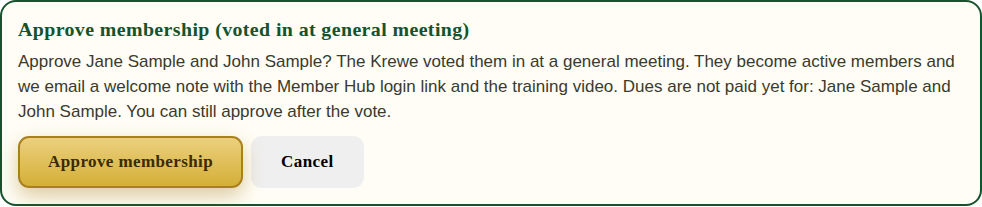
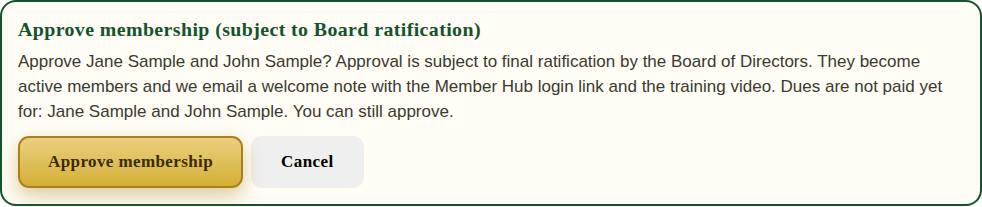
Say membership approval is subject to Board ratification.
Bylaws put final ratification with the Board of Directors. Hub copy, the welcome letter, and the process dates now match that and the July lapse rules on main.

diff --git a/assets/members-desk.js b/assets/members-desk.js
@@ -5657,8 +5657,8 @@
     { key: "fee_pending", title: "Background check fee pending", hint: "Waiting on the fee. Shows whether the full application is submitted." },
     { key: "bg_paid", title: "Background check fee paid", hint: "Start the check when you are ready to paste the ID." },
     { key: "bg_process", title: "Background check in process", hint: "When the check is clean, send the induction email." },
-    { key: "induction", title: "Induction pending", hint: "Dues link is out. Approve after the general meeting vote." },
-    { key: "active", title: "Members (complete)", hint: "Voted in." }
+    { key: "induction", title: "Induction pending", hint: "Dues link is out. Approval is subject to final ratification by the Board of Directors." },
+    { key: "active", title: "Members (complete)", hint: "On the roster." }
   ];
 
   function applicationRowsForView() {
@@ -5803,7 +5803,7 @@
       return '<button type="button" class="btn btn-primary" data-app-dues="' + id + '">Proceed with induction, send dues link</button>';
     }
     if (stage === "induction") {
-      return '<button type="button" class="btn btn-primary" data-app-approve="' + id + '">Approve membership (voted in at general meeting)</button>';
+      return '<button type="button" class="btn btn-primary" data-app-approve="' + id + '">Approve membership (subject to Board ratification)</button>';
     }
     return "";
   }
@@ -6026,7 +6026,7 @@
     if (state.applicationFlash) html += '<div class="hub-app-flash" id="hubAppFlash">' + esc(state.applicationFlash) + "</div>";
     var help = bucket === "prospect"
       ? "These are event RSVP prospects, not the join pipeline. Send the joining packet when they are ready to apply."
-      : "Call first. The card shows the phone number and a Call notes field. Called, send background check email sends the fee link and the full application. It does not include a dues link. After the fee is paid, start the background check. When it is clean, send the induction email with the dues link and the next membership meeting. Approve only after the Krewe votes them in at a general meeting.";
+      : "Call first. The card shows the phone number and a Call notes field. Called, send background check email sends the fee link and the full application. It does not include a dues link. After the fee is paid, start the background check. When it is clean, send the induction email with the dues link and the next membership meeting. Approval is subject to final ratification by the Board of Directors.";
     html += '<p class="hub-pipe-help">' + esc(help) + "</p>" +
       '<p class="hub-packet-launch"><button type="button" class="btn" id="hubEditJoiningPacket">Edit joining packet email</button>' +
       '<span class="muted">Change the greeting and the notes. The finish link and the background check pay buttons stay locked. The dues link is not in this letter.</span></p>' +
@@ -6153,10 +6153,10 @@
         var fields = document.getElementById("hubInductionFields");
         var yes = document.getElementById("hubAppConfirmYes");
         var unpaid = applicationUnpaidDuesNames(row);
-        if (title) title.textContent = "Approve membership (voted in at general meeting)";
+        if (title) title.textContent = "Approve membership (subject to Board ratification)";
         if (bodyText) {
-          bodyText.textContent = "Approve " + applicationCoupleNames(row) + "? The Krewe voted them in at a general meeting. They become active members and we email a welcome note with the Member Hub login link and the training video."
-            + (unpaid ? " Dues are not paid yet for: " + unpaid + ". You can still approve after the vote." : "");
+          bodyText.textContent = "Approve " + applicationCoupleNames(row) + "? Approval is subject to final ratification by the Board of Directors. They become active members and we email a welcome note with the Member Hub login link and the training video."
+            + (unpaid ? " Dues are not paid yet for: " + unpaid + ". You can still approve." : "");
         }
         if (fields) fields.hidden = true;
         if (yes) {

diff --git a/tests/specs/treasurer-ledger.spec.js b/tests/specs/treasurer-ledger.spec.js
@@ -3,6 +3,7 @@
 const { test, expect } = require("@playwright/test");
 const fs = require("fs");
 const path = require("path");
+const { unlockMemberHub } = require("./helpers");
 
 const V7 = path.join(__dirname, "../../previews/v7");
 fs.mkdirSync(V7, { recursive: true });
@@ -516,4 +517,41 @@ test("fundraising summary includes cash and check dues", async ({ page }) => {
   await expect(out.locator("#hubReportCashCheck")).toContainText("$750.00");
   await expect(out.locator("#hubReportCashCheck")).toContainText("cash and check dues");
   await page.locator("#hubReports").screenshot({ path: shot("11-fundraising-cash-check.png"), animations: "disabled" });
+});
+
+test("approve membership says Board ratification", async ({ page }) => {
+  await page.setViewportSize({ width: 1100, height: 1200 });
+  await unlockMemberHub(page, {
+    role: {
+      officer: false,
+      canReviewApplications: true,
+      applications: [{
+        id: "app-jane",
+        first_name: "Jane",
+        last_name: "Sample",
+        email: "jane.sample@example.com",
+        phone: "555-0100",
+        membership_status: "dues-pending",
+        membership_level: "full",
+        application_fee_type: "single",
+        dues_paid: true,
+        created_at: "2026-11-01T15:00:00.000Z"
+      }]
+    }
+  });
+  await page.locator("[data-hub-tab='officer']").click();
+  const tile = page.locator('[data-tool="tool:hubApplications"]');
+  await expect(tile).toBeVisible();
+  await tile.click();
+  const tool = page.locator("#hubApplications");
+  await expect(tool).toContainText("Approval is subject to final ratification by the Board of Directors.");
+  await expect(tool.locator("[data-app-approve='app-jane']")).toHaveText("Approve membership (subject to Board ratification)");
+  await expect(tool).not.toContainText("general meeting");
+  await page.addStyleTag({ content: ".krewe-nav,.krewe-music{display:none !important} .app-card{overflow:visible !important}" });
+  await page.evaluate(() => {
+    document.querySelectorAll(".hub-pipe-col").forEach((col) => {
+      if (!col.querySelector("[data-app-approve]")) col.style.display = "none";
+    });
+  });
+  await tool.screenshot({ path: shot("12-approve-ratification.png"), animations: "disabled" });
 });

diff --git a/previews/welcome-member-email.html b/previews/welcome-member-email.html
@@ -4,7 +4,7 @@
 <meta charset="utf-8" />
 <meta name="viewport" content="width=device-width, initial-scale=1" />
 <meta name="robots" content="noindex" />
-<title>Sample: welcome email after the general meeting vote</title>
+<title>Sample: welcome email after Board ratification</title>
 <style>
   body{margin:0;padding:24px 12px 48px;background:#f6efdd;font-family:Georgia,"Times New Roman",serif;color:#23291f;}
   .note{max-width:640px;margin:0 auto 16px;font-family:system-ui,sans-serif;font-size:14px;line-height:1.45;color:#3a3a2e;}
@@ -15,11 +15,11 @@
 </style>
 </head>
 <body>
-<p class="note">Sample only. This letter is not sent. No personal email address is shown. The live letter goes out when the chair approves membership after the general meeting vote.</p>
+<p class="note">Sample only. This letter is not sent. No personal email address is shown. The live letter goes out when an officer approves membership. Approval is subject to final ratification by the Board of Directors.</p>
 <article class="sheet" id="emailBody">
   <h1>Welcome to the Krewe of Shamrock</h1>
   <p>Dear Alex,</p>
-  <p>Welcome. The Krewe voted you in at a general meeting, and you are on the roster.</p>
+  <p>Welcome. Your membership is approved, subject to final ratification by the Board of Directors, and you are on the roster.</p>
   <p>To use the Member Hub, create your login with the same email you put on the application:</p>
   <ol>
     <li>Open the Member Hub at <a href="https://www.kreweofshamrock.com/members.html">kreweofshamrock.com/members.html</a>.</li>

diff --git a/tests/specs/hub-applications.spec.js b/tests/specs/hub-applications.spec.js
@@ -190,7 +190,7 @@ test.describe("Membership Applications", () => {
 
     await tool.locator("[data-app-approve='app-riley']").click();
     await expect(tool.locator("#hubAppConfirm")).toBeVisible();
-    await expect(tool.locator("#hubAppConfirmBody")).toContainText("voted them in at a general meeting");
+    await expect(tool.locator("#hubAppConfirmBody")).toContainText("final ratification by the Board of Directors");
     await expect(tool.locator("#hubAppConfirmBody")).toContainText("training video");
     await tool.locator("#hubAppConfirmYes").click();
     await expect(tool).toContainText("Approved.");
@@ -815,8 +815,8 @@ test.describe("Membership Applications", () => {
     await tool.locator("[data-app-approve='app-jane']").click();
     const body = tool.locator("#hubAppConfirmBody");
     await expect(body).toContainText("Dues are not paid yet for: Jane Sample and John Sample.");
-    await expect(body).toContainText("You can still approve after the vote.");
-    await expect(body).toContainText("voted them in at a general meeting");
+    await expect(body).toContainText("You can still approve.");
+    await expect(body).toContainText("final ratification by the Board of Directors");
     await expect(tool.locator("#hubAppConfirmYes")).toBeEnabled();
     await page.addStyleTag({ content: ".krewe-nav,.krewe-music{display:none !important}" });
     await tool.locator("#hubAppConfirm").screenshot({

diff --git a/tests/specs/membership-pipeline-dashboard.spec.js b/tests/specs/membership-pipeline-dashboard.spec.js
@@ -205,7 +205,7 @@ test("dashboard shows the pipeline with mock applicants", async ({ page }) => {
 
   await tool.locator("[data-app-approve='app-drew']").click();
   await expect(tool.locator("#hubAppConfirm")).toBeVisible();
-  await expect(tool.locator("#hubAppConfirmTitle")).toContainText("Approve membership (voted in at general meeting)");
+  await expect(tool.locator("#hubAppConfirmTitle")).toContainText("Approve membership (subject to Board ratification)");
   await expect(tool.locator("#hubAppConfirmBody")).toContainText("training video");
   await artifactShot(tool.locator("#hubAppConfirm"), "/opt/cursor/artifacts/membership-approve-confirm.png");
   await page.evaluate(() => {

diff --git a/docs/membership-process.md b/docs/membership-process.md
@@ -13,7 +13,7 @@ Sample names in tests and screenshots are not real members.
 5. When the fee is paid, or you use **Auxiliary: fee included**, the card moves to Background check fee paid.
 6. **Start background check** stays off until the full application is in. The helper text is "Waiting for the full application". A single applicant needs a Social Security number and a driver's license on file. A couple also needs both for the partner. Then the button turns on. Copy uses the last 4 on the card. The full number goes to the clipboard only when you copy it. No email is sent.
 7. When the check is clean, **Proceed with induction, send dues link**. That is `dues-pending`. This status is only for new applicants.
-8. After the Krewe votes them in at a general meeting, **Approve membership**. That is the only approval that sends the welcome letter, with the Member Hub login steps and the training video.
+8. **Approve membership (subject to Board ratification)**. Approval is subject to final ratification by the Board of Directors. That is the only approval that sends the welcome letter, with the Member Hub login steps and the training video.
 
 Decline and Withdraw keep the record. Nothing is deleted.
 
@@ -26,9 +26,9 @@ Membership Applications has no Renewals tab and no Approve renewal button. A per
 The cycle is:
 
 1. **Active.** They are on the roster.
-2. **Lapsed.** After the lapse date, Renewals can mark someone lapsed when they are still active, not exempt, and have no paid or applied-waiver dues row for the season. People who joined on or after June 1 of this season are skipped. No email is sent by Mark lapsed.
-3. **Pending dues.** The status value is `pending-renewal`. The Hub label is Pending dues. This is a lapsed member who was sent a reactivation link, or who picked a level on their own Renew card. An unpaid dues row is on file. Their payment has not come in yet.
-4. **Active again.** A Zeffy dues payment does this. Cash or check does it when you use Renewals, **Mark renewed**. No renewal email is sent for the cash or check mark.
+2. **Delinquent.** Dues are due June 1. On July 1, Renewals can mark someone delinquent when they are still active, not exempt, and have no paid or applied-waiver dues row for the season. The status value stays `lapsed`. The Hub label is Delinquent. People who joined on or after June 1 of this season are skipped. No email is sent by Mark delinquent.
+3. **Pending dues.** The status value is `pending-renewal`. The Hub label is Pending dues. This is a delinquent member who was sent a reactivation link, or who picked a level on their own Renew card. An unpaid dues row is on file. Their payment has not come in yet.
+4. **Active again.** A Zeffy dues payment does this. Cash or check does it when you use Renewals, **Record cash or check**. No renewal email is sent for the cash or check entry.
 
 Do not put a returning member in `dues-pending`. That status is the new-applicant induction step.
 
@@ -41,11 +41,13 @@ Do not put a returning member in `dues-pending`. That status is the new-applican
 
 An elected Treasurer is never a lapse candidate.
 
-### Lapse date
+### Delinquent and inactive dates
 
-Renewals shows a **Lapse date** line. The confirmed default, when nobody has saved one, is August 1 of the season year (the year that starts in June). That date lives in `kos_default_lapse_date`. Officers who can open Renewals can use **Edit** to save a different date for the year.
+Dues are due June 1. Unpaid on July 1 is delinquent. After July 16 the member can be marked inactive and must reapply.
 
-**Mark lapsed** stays off until that date. The button then reads "Available on DATE". On or after the date it opens a preview with the count and the names. If elected officers are missing an applied elected-officer waiver, the preview shows that count and **Open Dues waivers**. Check "I have checked this list", then confirm. People who no longer qualify are skipped.
+Renewals shows **Delinquent on** and **Inactive after**. The defaults, when nobody has saved a year, are July 1 (`kos_default_delinquent_on`) and July 16 (`kos_default_inactive_on`). Officers who can open Renewals can use **Edit** to save a different date for that year.
+
+**Mark delinquent** stays off until July 1. **Mark inactive** stays off until July 16. Each button then reads "Available on DATE". On or after the date it opens a preview with the count and the names. If elected officers are missing an applied elected-officer waiver, the delinquent preview shows that count and **Open Dues waivers**. Check "I have checked this list", then confirm. People who no longer qualify are skipped. Mark inactive does not send email. Those members must submit a new application.
 
 ### Reactivation
 
@@ -55,10 +57,10 @@ On the member side, a delinquent Renew card says dues are past due and names the
 
 ### Cash or check
 
-Renewals, **Mark renewed**, records the paid dues row. If they were lapsed or pending dues, they become active. No email is sent.
+Renewals, **Record cash or check**, records the paid dues row. If they were delinquent or pending dues, they become active. No email is sent.
 
 ## What ships together
 
-The Hub calls `kos_lapse_candidates`, `kos_mark_lapsed`, `kos_start_reactivation`, `kos_get_lapse_date`, and `kos_set_lapse_date`. Those live in `sql/kos_v6_renewal_lapse.sql`. That file is not applied until Melissa approves it, and it should go out in the same release as this Hub. If the functions are missing, Renewals hides the lapse date, Mark lapsed, and Send reactivation link, and the rest of Renewals still works.
+The Hub calls the v6 renewal functions in `sql/kos_v6_renewal_lapse.sql`. That file is already applied on main. Dues are due June 1, delinquent is July 1, and inactive is after July 16. If those functions are missing, Renewals hides the date controls, Mark delinquent, Mark inactive, and Send reactivation link, and the rest of Renewals still works.
 
 Treasurer stays in the Renewals access check, with the Membership Chair, the President, and site admins. Treasurer does not gain Membership Applications.

diff --git a/MEMBERSHIP_APPLICATIONS.md b/MEMBERSHIP_APPLICATIONS.md
@@ -10,7 +10,7 @@ The live journey is:
 4. Fee paid (the Zeffy alert moves the row to Background check fee paid), or **Auxiliary: fee included** for an Auxiliary row still waiting on that fee. The Auxiliary button sends no email.
 5. Start background check and Copy IDs. The button stays off, with "Waiting for the full application", until the applicant's Social Security number and driver's license are on file. A couple also needs both numbers for the partner. Copy puts a number on the clipboard. The card stays masked. No email is sent.
 6. Proceed with induction, send dues link. One dues block per person. A couple with the same Zeffy link is told to add one ticket per person.
-7. Approve membership after the vote. Only a dues-pending approval sends the welcome letter, including the training video.
+7. Approve membership. Approval is subject to final ratification by the Board of Directors. Only a dues-pending approval sends the welcome letter, including the training video.
 
 Returning members are not approved here. Dues payment moves a lapsed or pending dues member back to active. See docs/membership-process.md.
 
@@ -34,7 +34,7 @@ The Membership Chair does not need a new grant. Lisa Sugrue already has the Memb
 
 Pending application means `membership_status = 'pending-new'` (the join form). Event RSVP prospects (`prospect`) are a separate filter. `pending-renewal` is pending dues for a returning member. Those people do not appear in Membership Applications, and approve of that status changes nothing.
 
-- **Approve membership (voted in at general meeting)** is the induction-stage button (`dues-pending`). It sets `membership_status` to `active`. `member_role` becomes `member` when it is blank or `prospect`. An existing officer, board, or captain role is left alone. `join_date` is filled only when it is null. The join form already stamps `join_date` from the column default, so a normal new application keeps the date it was submitted. That approval queues the welcome email through `enqueue_email` / `outbound_emails`. It tells them to open the Member Hub, tap **Create or reset your password**, and use the email on the application. Signing up with that email is what links their login (`handle_new_user` matches the roster by email). The letter includes the training video `https://youtu.be/TQq0DlRQjvM?si=VN7_9JIyuUbxenvR`. If dues are still unpaid for the applicant or the linked partner, the confirm dialog says so and does not block the vote.
+- **Approve membership (subject to Board ratification)** is the induction-stage button (`dues-pending`). It sets `membership_status` to `active`. `member_role` becomes `member` when it is blank or `prospect`. An existing officer, board, or captain role is left alone. `join_date` is filled only when it is null. The join form already stamps `join_date` from the column default, so a normal new application keeps the date it was submitted. That approval queues the welcome email through `enqueue_email` / `outbound_emails`. It tells them to open the Member Hub, tap **Create or reset your password**, and use the email on the application. Signing up with that email is what links their login (`handle_new_user` matches the roster by email). The letter includes the training video `https://youtu.be/TQq0DlRQjvM?si=VN7_9JIyuUbxenvR`. The letter says approval is subject to final ratification by the Board of Directors. If dues are still unpaid for the applicant or the linked partner, the confirm dialog says so and does not block approval.
 - Approving a `pending-renewal` row returns: "Renewals are automatic when dues are paid. For cash or check, use Officer desk, Renewals, Mark renewed." Decline and archive of an old pending-renewal row still work.
 - **Decline** sets `membership_status` to `declined`. **Archive** sets `archived`. An optional note is stored with the decision. Members rows are never deleted.
 
@@ -75,7 +75,7 @@ Join-form applications move through these `membership_status` values. Officers d
 | Background check fee paid | `bg_paid` | Zeffy marked the fee paid, or the chair used **Auxiliary: fee included**. **Start background check** stays off until the full application IDs are in. |
 | Background check in process | `bg_in_process` | Chair clicked **Start background check** and can Copy IDs. |
 | Induction pending | `dues-pending` | Chair clicked **Proceed with induction, send dues link**. The dues link and the meeting invitation are out. |
-| Member | `active` | **Approve membership (voted in at general meeting)**. The welcome letter goes out from this step only. |
+| Member | `active` | **Approve membership (subject to Board ratification)**. The welcome letter goes out from this step only. Approval is subject to final ratification by the Board of Directors. |
 | Declined | `declined` | Record stays. Off the new list. |
 | Archived | `archived` | Record stays. Off the new list. |
 
